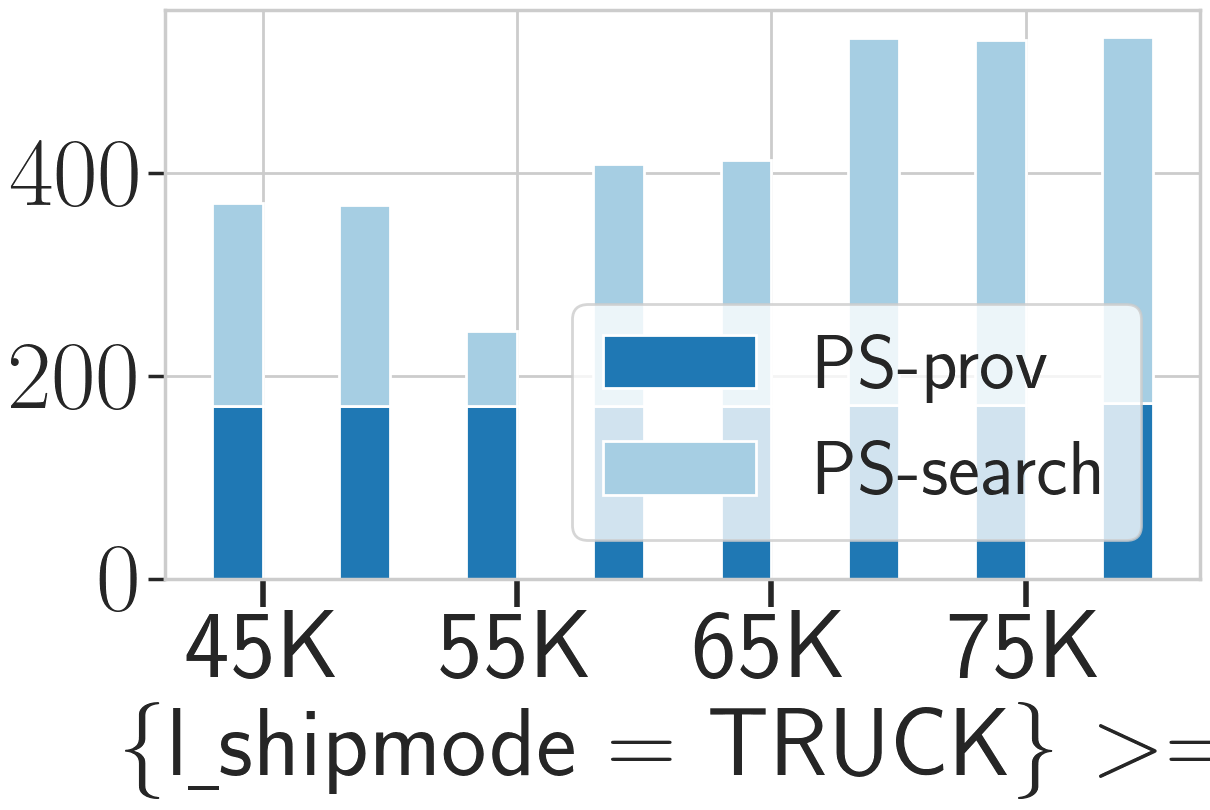
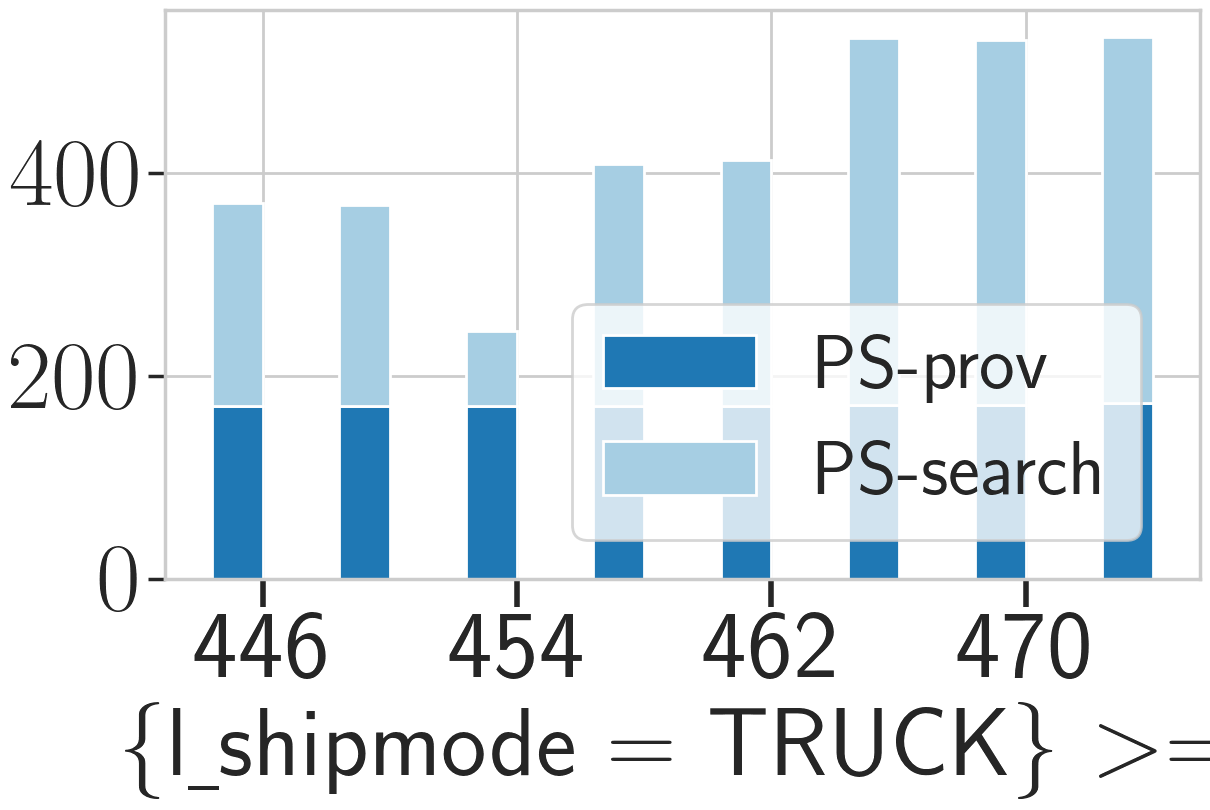
10G constraint change q3 refine

diff --git a/Experiment/TPCH/10G/constraint_change/q3_refine/fig.py b/Experiment/TPCH/10G/constraint_change/q3_refine/fig.py
@@ -58,7 +58,7 @@ def run(query, size, constraint):
             execution_timebl1.append(0)
             execution_timebl2.append(0)
     # x_list = [19941230, 19950115, 19950130, 19950215, 19950230, 19950315, 19950330, 19950415]
-    x_list = ['45K', '55K', '65K', '75K']
+    x_list = ['446', '454', '462', '470']
 
     print(x_list, execution_timeps1, execution_timeps2)
 
